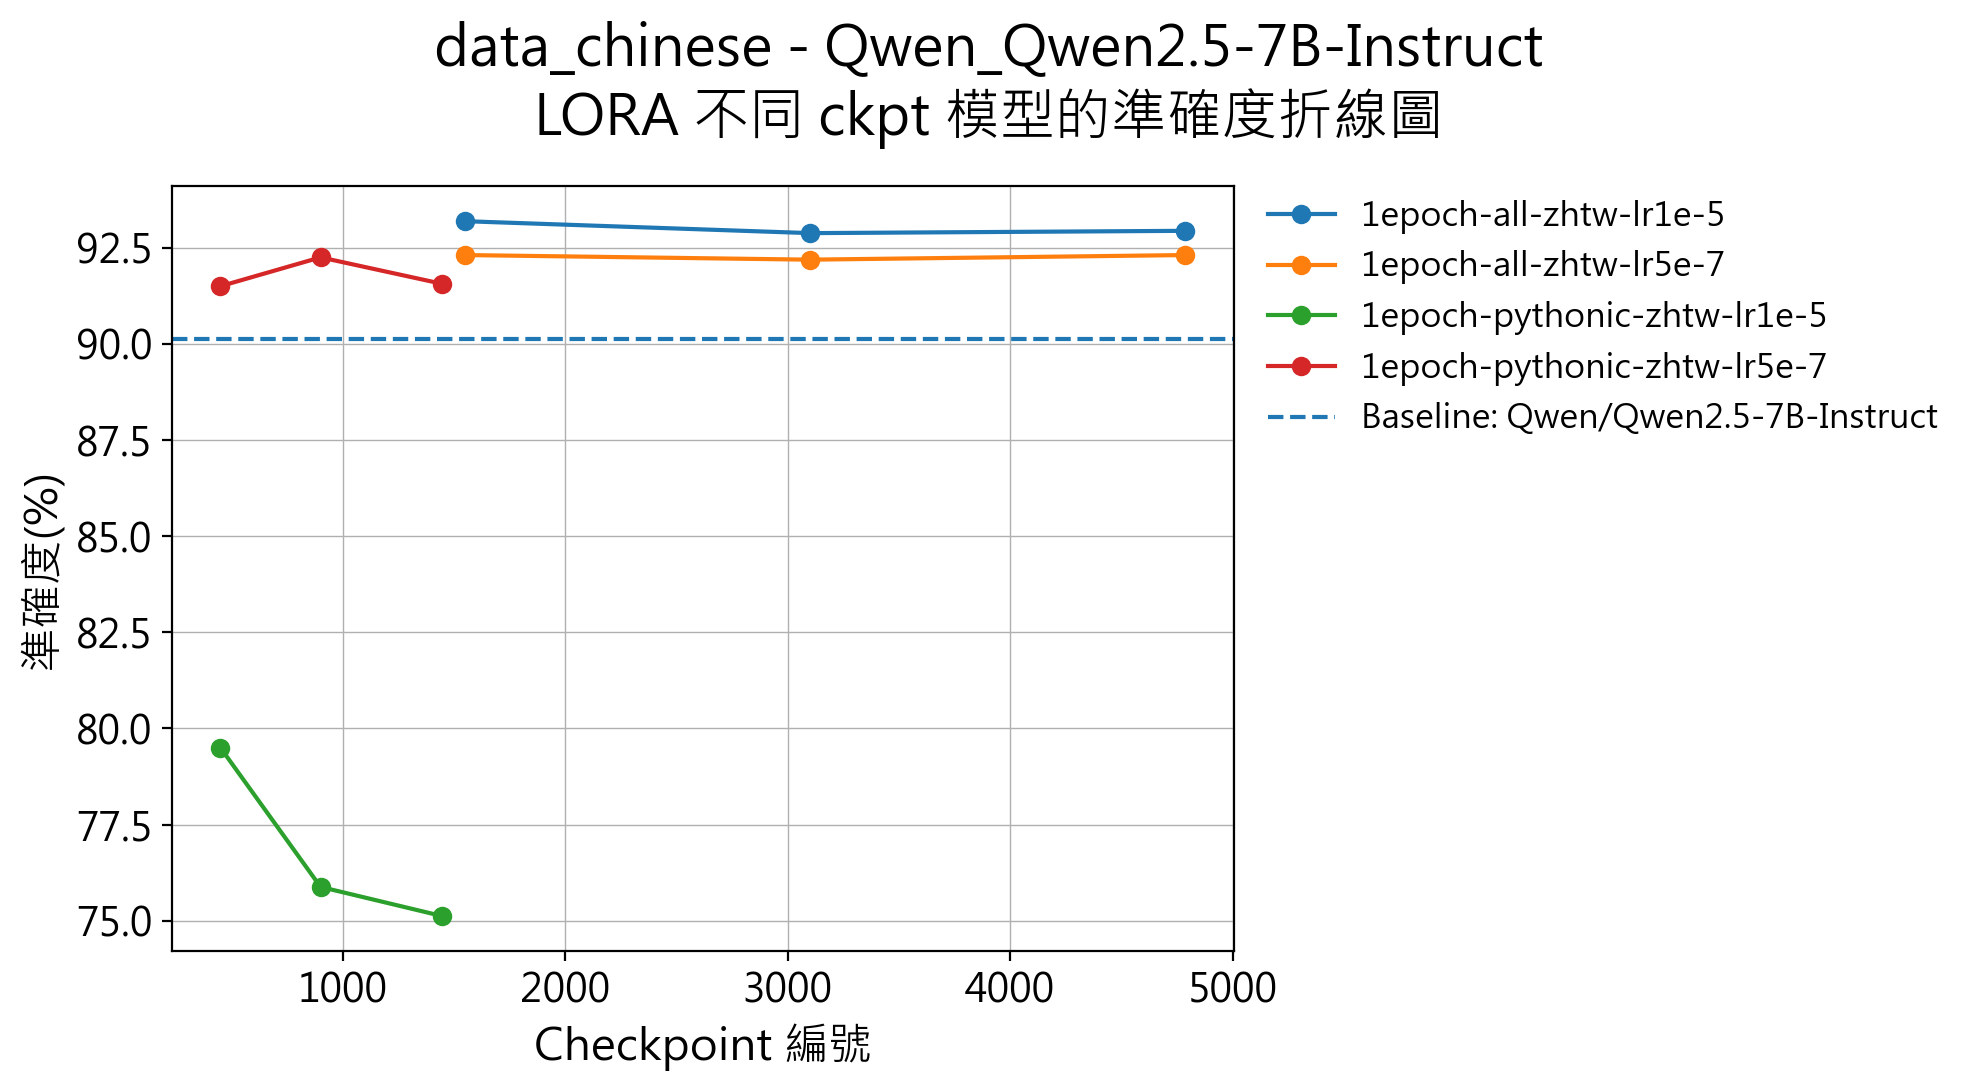
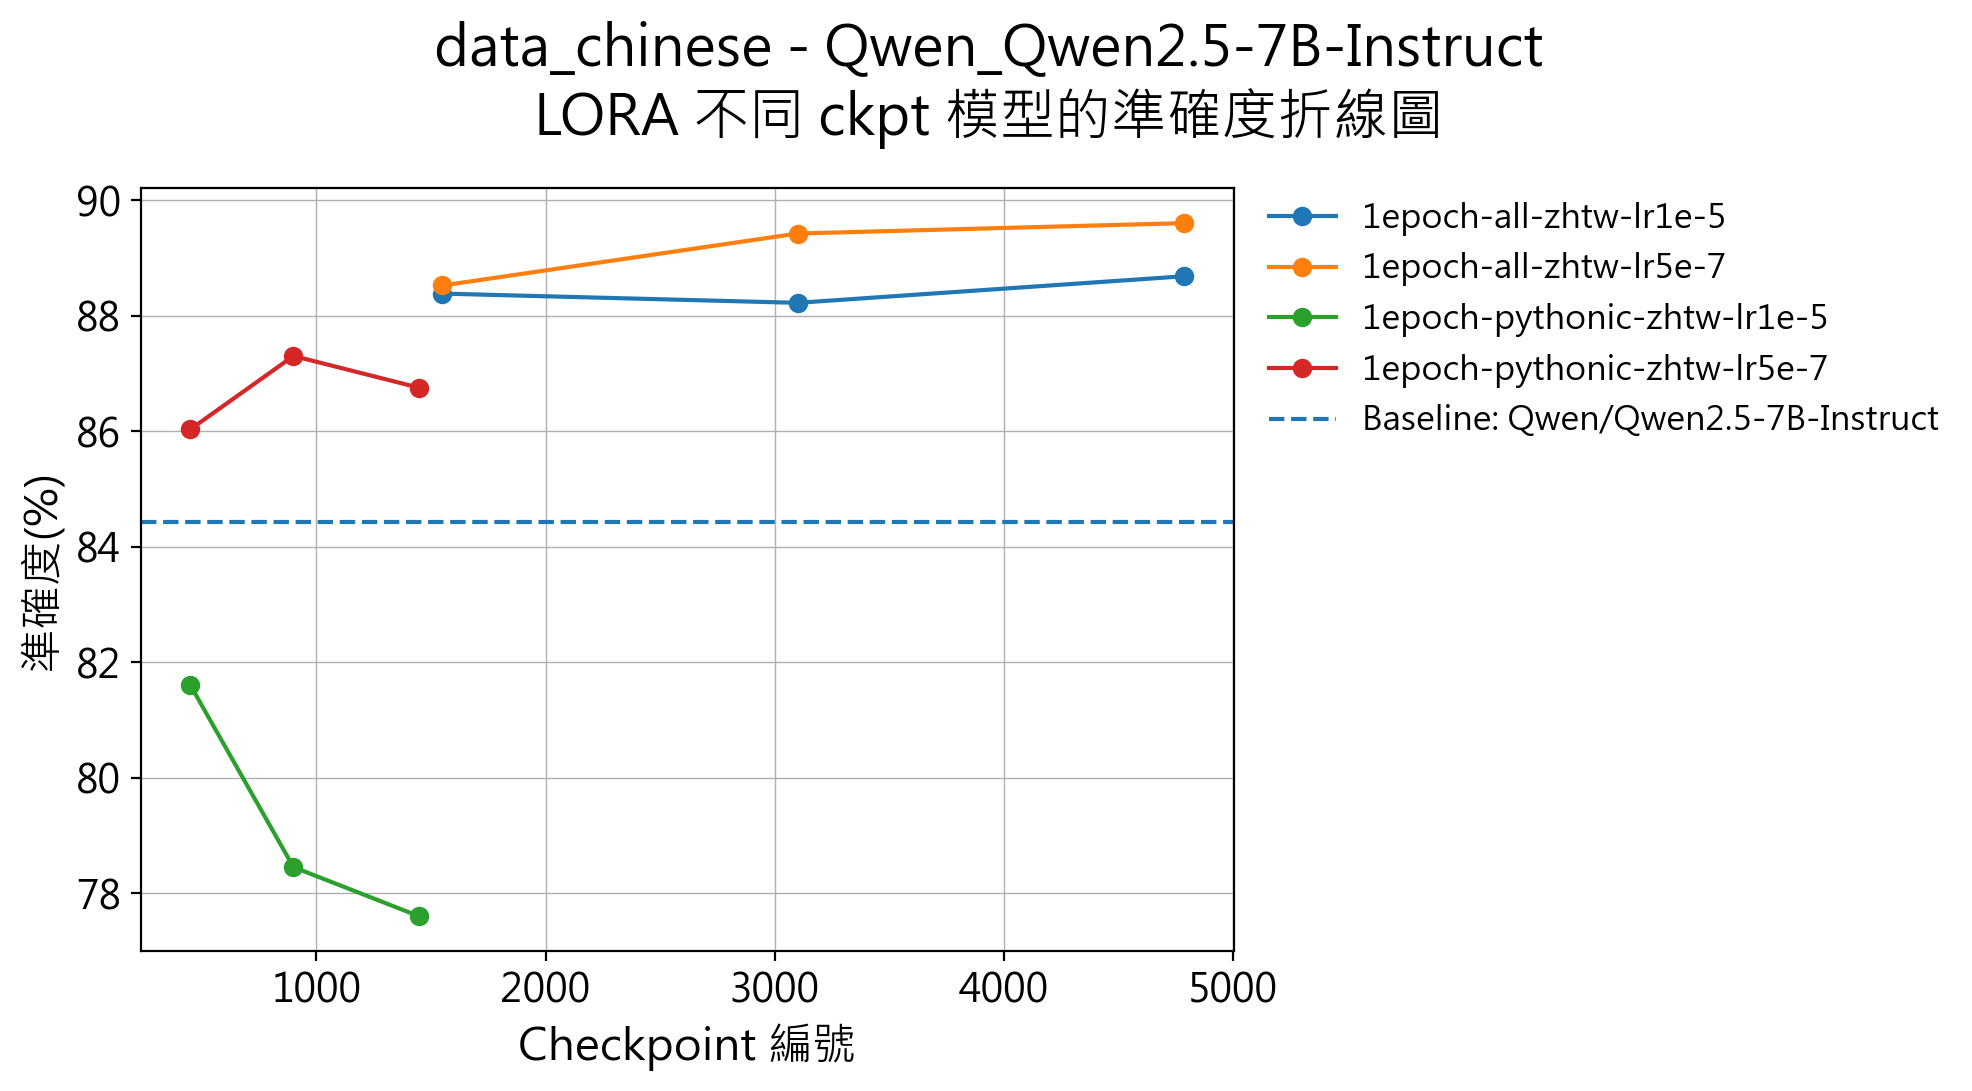
new data

diff --git a/berkeley-function-call-leaderboard/bfcl_eval/eval_checker/eval_runner_helper.py b/berkeley-function-call-leaderboard/bfcl_eval/eval_checker/eval_runner_helper.py
@@ -487,9 +487,9 @@ def generate_leaderboard_csv(leaderboard_table, output_path):
         zh_parallel_multiple = get_category_score(value, "zh_parallel_multiple")
         zh_irrelevance = get_category_score(value, "zh_irrelevance")  # 若沒有會顯示 N/A
 
-        # 不加權平均
+        # 不加權平均（含 Relevance）
         zh_summary = calculate_unweighted_accuracy(
-            [zh_simple_python, zh_multiple, zh_parallel, zh_parallel_multiple]
+            [zh_simple_python, zh_multiple, zh_parallel, zh_parallel_multiple, zh_irrelevance]
         )
         # 寫入該 model 的中文資料列
         data_chinese.append(

diff --git a/berkeley-function-call-leaderboard/regenerate_csv.py b/berkeley-function-call-leaderboard/regenerate_csv.py
@@ -1,0 +1,21 @@
+#!/usr/bin/env python3
+"""
+重新生成 leaderboard CSV 檔案
+"""
+from pathlib import Path
+from bfcl_eval.eval_checker.eval_runner_helper import (
+    generate_leaderboard_csv,
+    update_leaderboard_table_with_local_score_file,
+)
+
+if __name__ == "__main__":
+    score_dir = Path('./score')
+    
+    print("正在讀取 score 資料夾...")
+    leaderboard_table = {}
+    update_leaderboard_table_with_local_score_file(leaderboard_table, score_dir)
+    
+    print("正在生成 CSV 檔案...")
+    generate_leaderboard_csv(leaderboard_table, score_dir)
+    
+    print("CSV 生成完成！")
